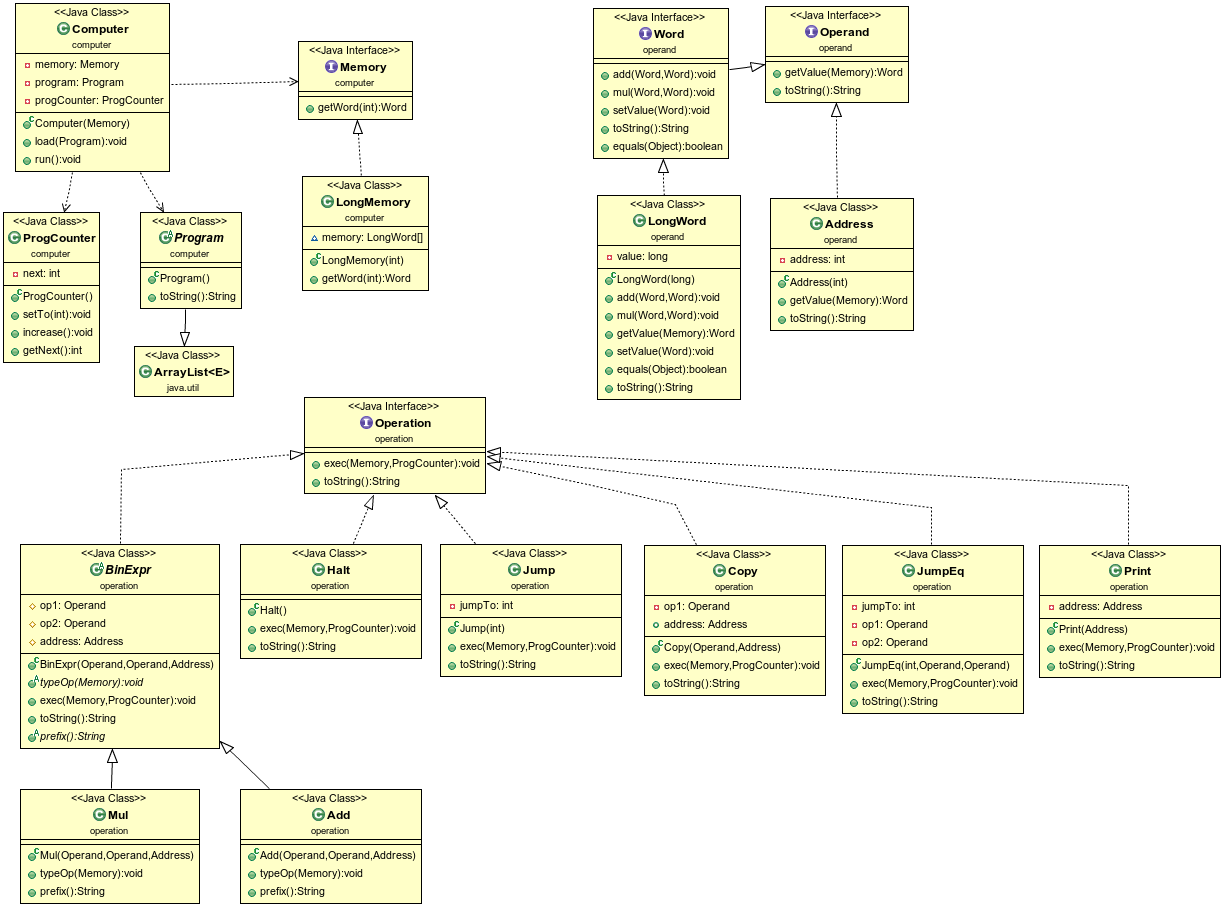
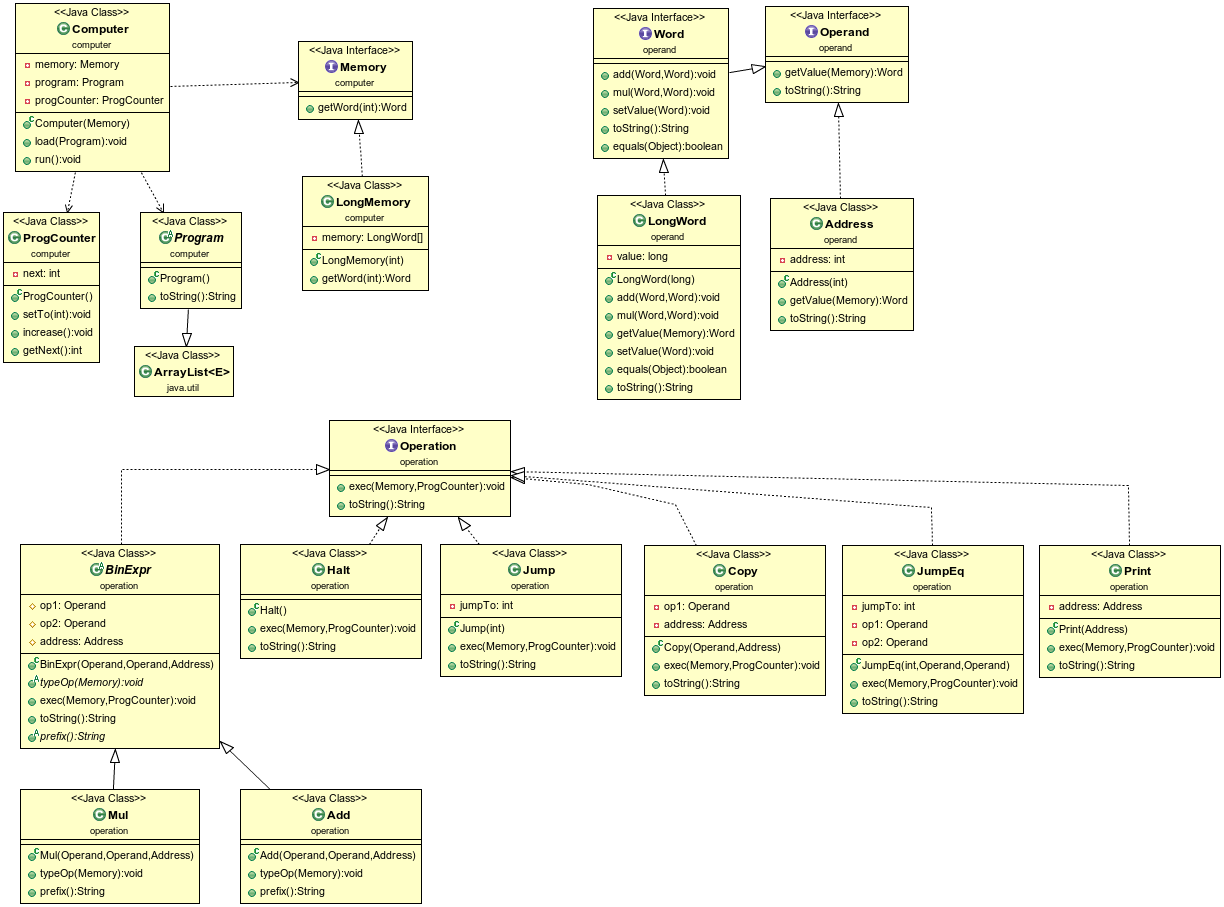
Lite korrigering. Projekt inskickat

Changed region(s): [[0.2173, 0.4322, 0.5278, 0.5865], [0.5899, 0.5248, 0.7141, 0.5557], [0.5899, 0.0617, 0.6209, 0.0926]]

diff --git a/src/operation/Copy.java b/src/operation/Copy.java
@@ -15,8 +15,8 @@ import computer.ProgCounter;
  */
 public class Copy implements Operation {
 
-    private Operand op1 = null;
-    public Address address = null;
+    private Operand op1;
+    private Address address;
     
     /**
      * The constructor.

diff --git a/src/computer/LongMemory.java b/src/computer/LongMemory.java
@@ -14,7 +14,7 @@ import computer.Memory;
  */
 public class LongMemory implements Memory {
 	
-    LongWord[] memory;
+    private LongWord[] memory;
 
     public LongMemory(int size) {
     	memory = new LongWord[size];
